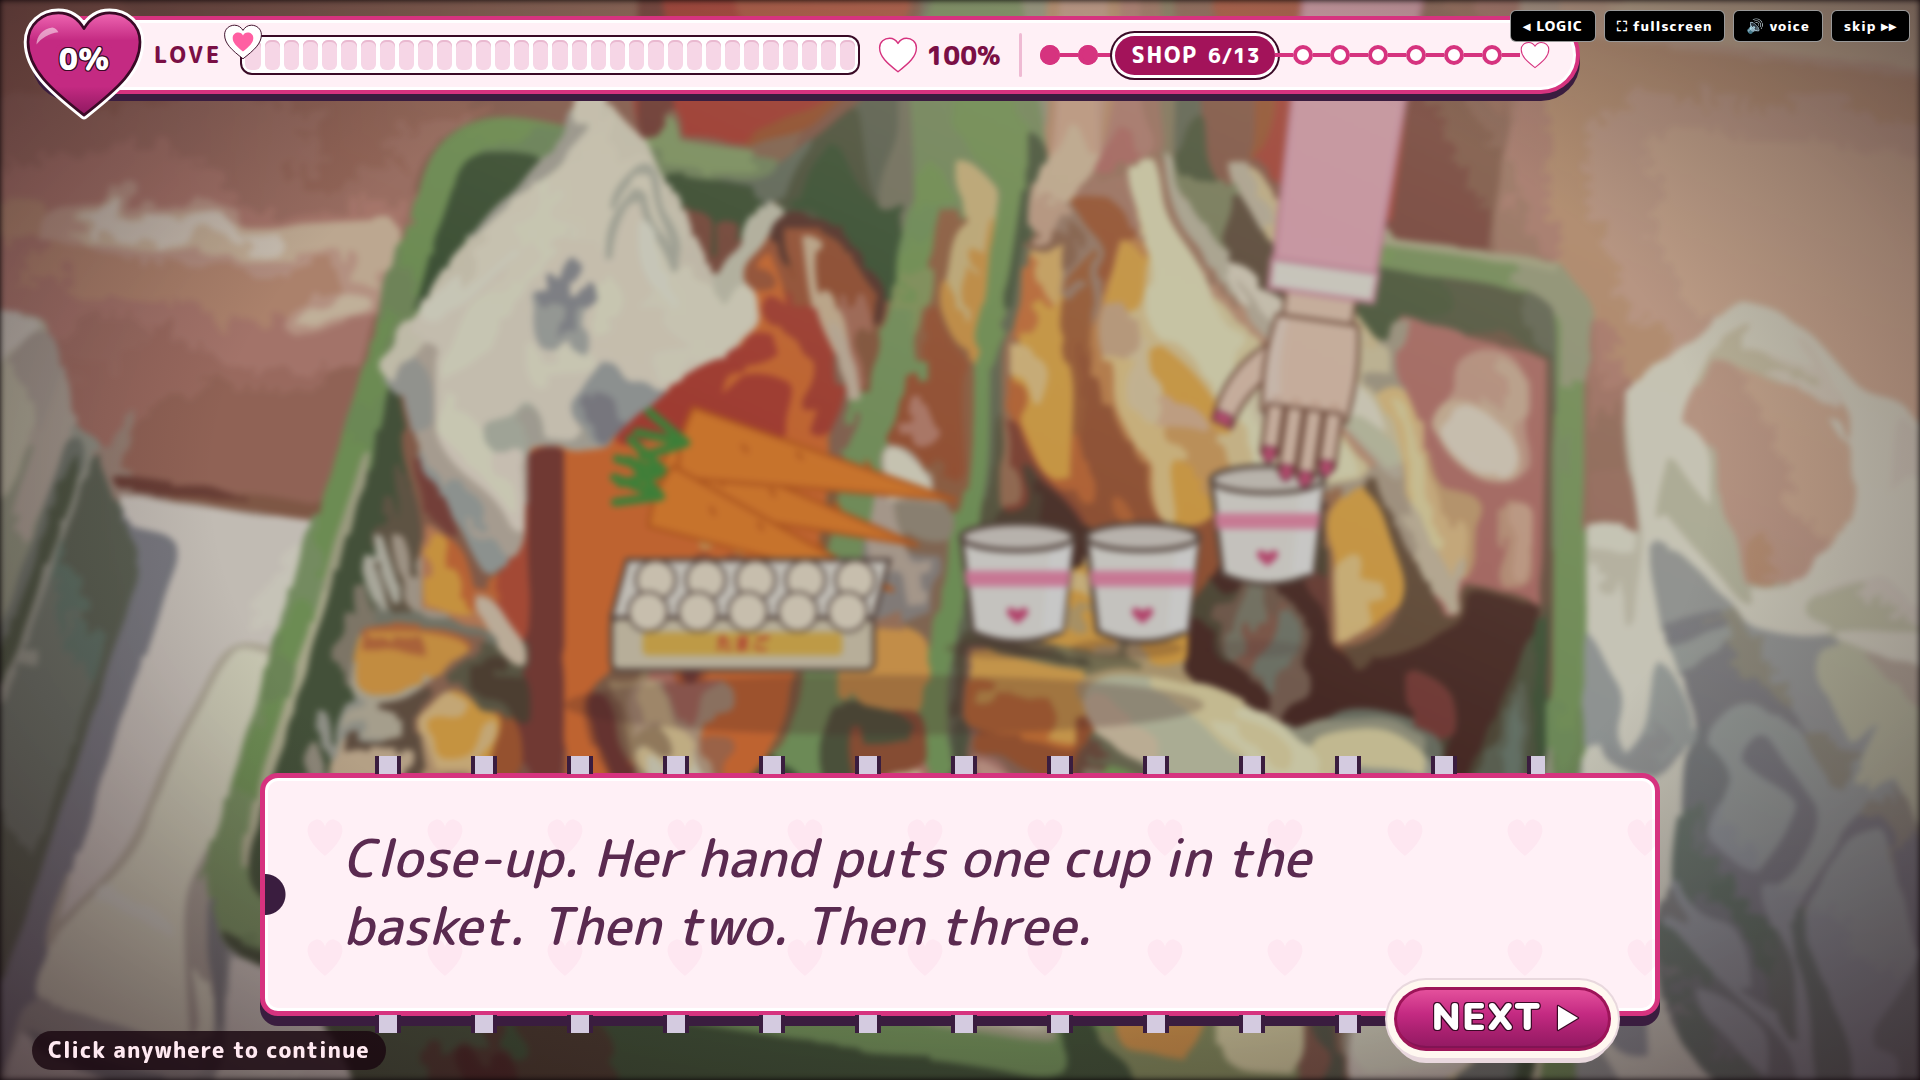
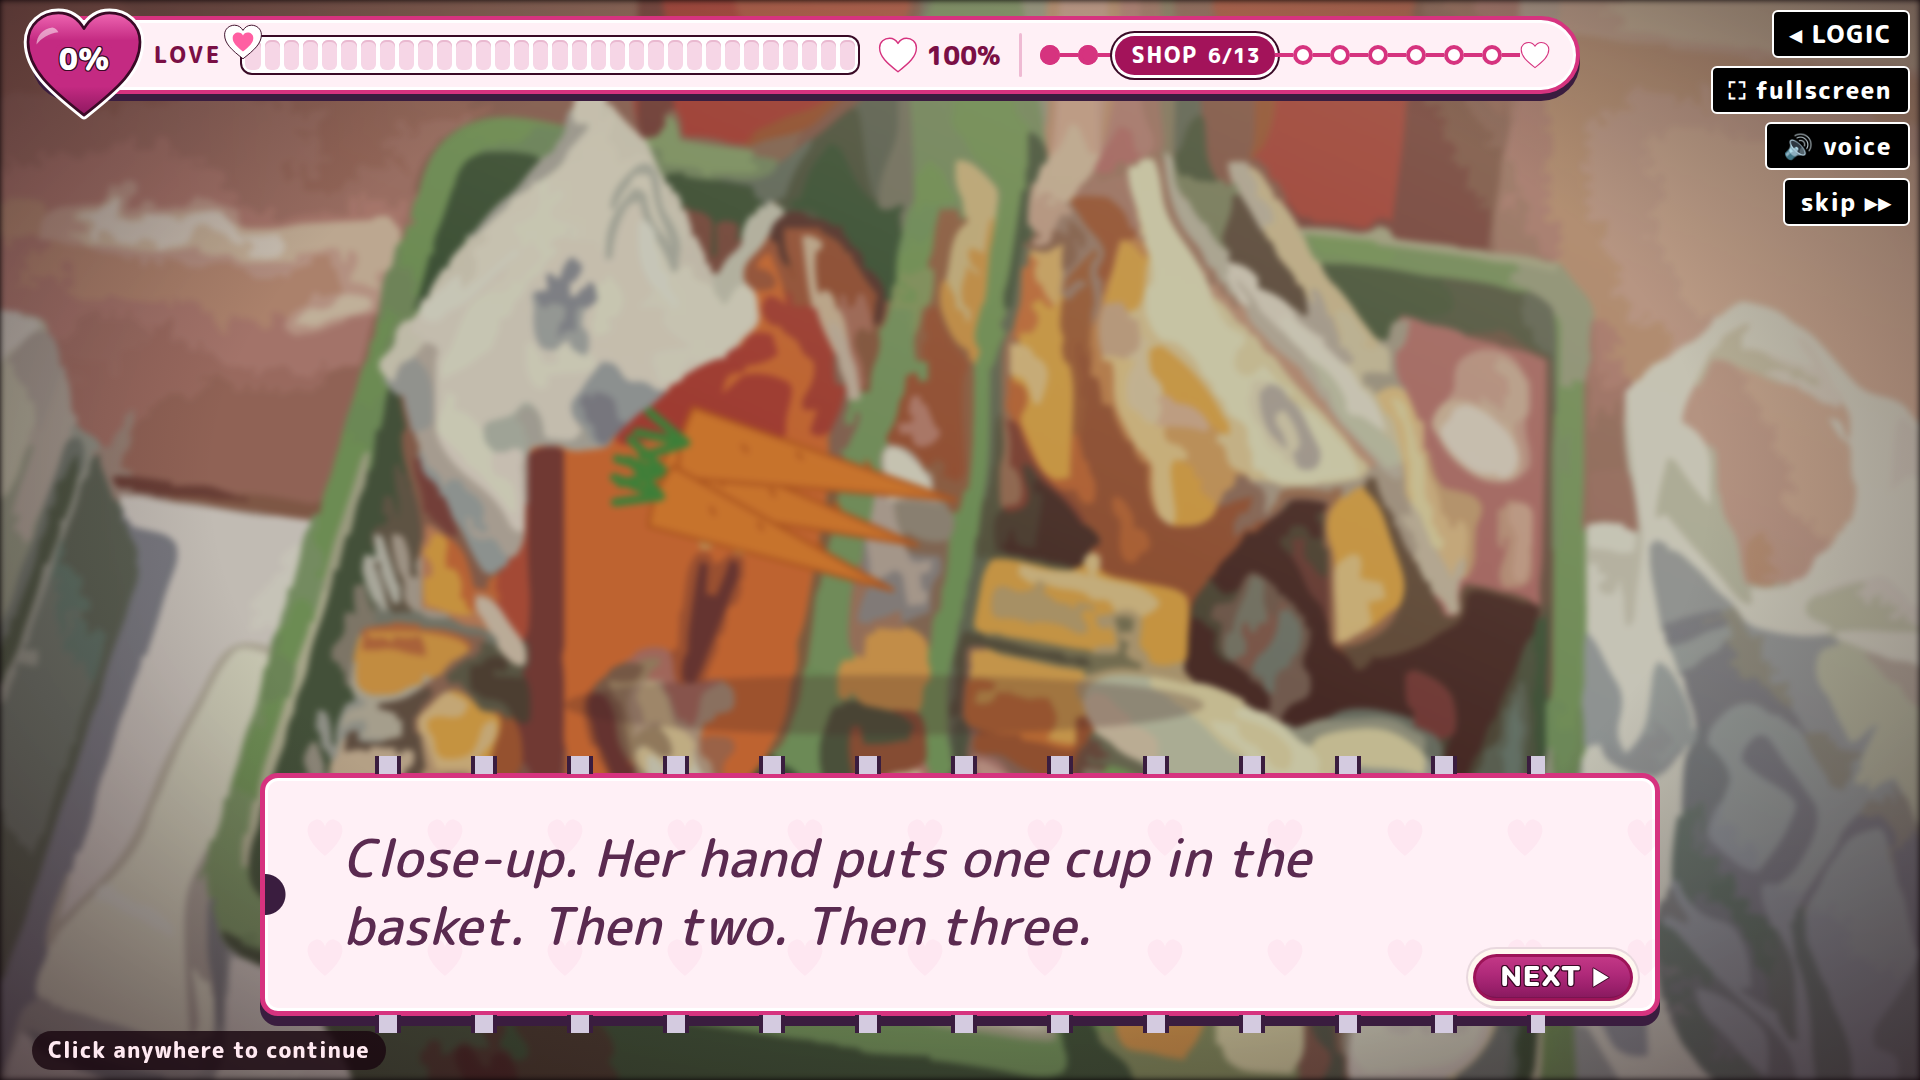
shop: cut the HER LIST end card; strip drawn eggs/cups from the basket bed
Claude-Session: https://claude.ai/code/session_01SJvvUToGvjR4saHp1762z5

diff --git a/src/date-beta/game/ShopGame.jsx b/src/date-beta/game/ShopGame.jsx
@@ -2,7 +2,7 @@
 // You push the cart (POV: the red handle at the bottom edge). 3 aisles, one hard cut each: her list item at the top, a
 // shelf of 3-4 items (click, or keys 1-4), a stepped "She is waiting" timer. Right = the close-up + her happy line.
 // Wrong (or the timer) = her mood climbs for the rest of the game: pout -> OCPD (she straightens the shelf) -> BPD
-// split (flat, then sweet). End card: the cart with the three items + "you ♡", then onPick(bucket): the beat's choice
+// split (flat, then sweet). No end card: after the last reaction, onPick(bucket): the beat's choice
 // 0 (love -2) / 1 (+2) / 2 (+3). Like LockGame: every state is a static frame held >= 334 ms, no transitions, so
 // reduced motion needs no separate path. Rules live in shopgame.js (tested under node).
 import { useCallback, useEffect, useRef, useState } from 'react';
@@ -55,8 +55,7 @@ export default function ShopGame({ props = {}, onPick }) {
   // same = back to the same aisle after a wrong pick: the clock keeps its time (it never refills, so a round is <= secs)
   const toShelf = useCallback((s, same = false) => {
     if (s.done) {
-      setFrame({ kind: 'end' });
-      later(HOLD.end, () => { if (!done.current) { done.current = true; onPick?.(bucket(s.wrongs)); } });
+      if (!done.current) { done.current = true; onPick?.(bucket(s.wrongs)); } // no end card: straight to the next beat
       return;
     }
     if (!same) setLeft(secs);
@@ -108,23 +107,6 @@ export default function ShopGame({ props = {}, onPick }) {
 
   const round = ROUNDS[st.r];
   const stop = (e) => e.stopPropagation();
-
-  if (frame.kind === 'end') {
-    return (
-      <div className="sg-root sg-end" onClick={stop}>
-        <Bg id="shop-cart-full" />
-        <div className="sg-card" role="status">
-          <div className="sg-list-title">HER LIST · DONE</div>
-          <ul className="sg-got">
-            {['carrots', 'eggs', 'three'].map((id) => <li key={id}><Icon id={id} /></li>)}
-            <li className="sg-you">you ♡</li>
-          </ul>
-          <div className="sg-line">{st.wrongs === 0 ? 'Every item. First try. You are perfect. ♡' : st.wrongs === 1 ? 'All done. Almost perfect. ♡' : 'All done. Next time, read my list.'}</div>
-        </div>
-        <Her emote={st.wrongs >= 2 ? 'pout' : 'hearts'} />
-      </div>
-    );
-  }
 
   if (frame.kind === 'right') {
     const line = frame.round.id === 'eggs' && rolls ? frame.round.rightRolls : frame.round.right;

diff --git a/src/date-beta/art/shop/Checkout.jsx b/src/date-beta/art/shop/Checkout.jsx
@@ -6,17 +6,10 @@ import { ShopScene, ShelfBay, Card, Cup, Hand, BasketBed, BasketGoods, BASKET, S
 // vtrace r2: the basket is the trace of ref 03 (the green basket full of groceries, 3/4 from above); her list sits on
 // top (the shared BasketGoods: carrot bag, egg pack, cups 1 + 2 on one baseline) and her hand lowers cup 3.
 export function BasketCups() {
-  const hand = (
-    <g>
-      <Cup x={BASKET.cupsX[2]} y={BASKET.cupsY - 46} s={0.9} shadow={false} />
-      <ellipse cx={BASKET.cupsX[2] - 10} cy={BASKET.cupsY + 3} rx="40" ry="7" fill={SP.shade} opacity=".16" />
-      <Hand x={BASKET.cupsX[2] + 40} y={BASKET.cupsY - 46 - 86 - 128} rot={188} s={0.78} her thumb="right" />
-    </g>
-  );
   return (
-    <ShopScene id="basket" trace="r2-basket" label="Close-up from above: a green shop basket full of groceries. On top: carrots, a pack of eggs and two matching cups. Nanda's hand puts the third cup in.">
+    <ShopScene id="basket" trace="r2-basket" label="Close-up from above: a green shop basket full of groceries. On top: carrots.">
       <Shadow x={980} y={690} w={640} h={60} op={0.28} />
-      <BasketGoods x={930} y={620} s={1.25} cups={2} hand={hand} />
+      <BasketGoods x={930} y={620} s={1.25} />
     </ShopScene>
   );
 }

diff --git a/src/date-beta/game/shopgame.js b/src/date-beta/game/shopgame.js
@@ -3,7 +3,7 @@
 // A wrong pick (or the timer running out) raises her mood level for the rest of the game: 1 pout, 2 OCPD shelf
 // straighten, 3+ BPD split. The run ends in one score bucket = the index of the game beat's choice (its love value).
 export const SECS = 12; // per aisle; 3 x 12 s + the holds stays under the 45 s budget
-export const HOLD = { right: 1500, wrong: 1400, split: 900, end: 2000 }; // ms, every frame >= 334 ms (stepped, no motion)
+export const HOLD = { right: 1500, wrong: 1400, split: 900 }; // ms, every frame >= 334 ms (stepped, no motion)
 
 export const ROUNDS = [
   { id: 'produce', aisle: 'AISLE 1 · VEGETABLES', want: 'carrots', bg: 'shop-aisle-produce', close: 'shop-carrots',

diff --git a/src/date-beta-shop.test.js b/src/date-beta-shop.test.js
@@ -49,7 +49,7 @@ test('HER LIST rules: 3 aisles (produce, eggs, the three-cups trap), one right i
     assert.ok(r.items.length >= 3 && r.items.length <= 4, r.id);
   }
   assert.ok(ROUNDS[2].items.find((i) => i.id === 'pair').aside.includes('third'));
-  assert.ok(ROUNDS.length * SECS * 1000 <= 45_000 - HOLD.end);
+  assert.ok(ROUNDS.length * SECS * 1000 <= 45_000);
   for (const v of Object.values(HOLD)) assert.ok(v >= 334);
   for (const r of ROUNDS) for (const id of [r.bg, r.close]) assert.match(src('./date-beta/art/shop/index.js'), new RegExp(`'${id}'`));
 });

diff --git a/src/date-beta/art/shop/parts.jsx b/src/date-beta/art/shop/parts.jsx
@@ -201,8 +201,6 @@ export function BasketGoods({ x = 0, y = 0, s = 1, cups = 3, hand = null }) {
   return (
     <g transform={`translate(${x} ${y}) scale(${s})`}>
       <Carrot x={-10} y={-60} len={210} a={16} /><Carrot x={20} y={-96} len={220} a={12} /><Carrot x={-30} y={-24} len={200} a={22} />
-      <EggPack x={-150} y={40} w={210} />
-      {BASKET.cupsX.slice(0, cups).map((cx) => <Cup key={cx} x={cx} y={BASKET.cupsY} s={0.9} />)}
       {hand}
     </g>
   );
